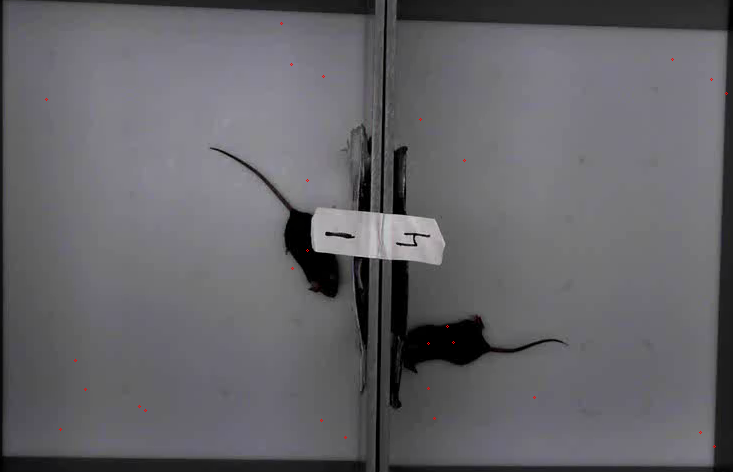
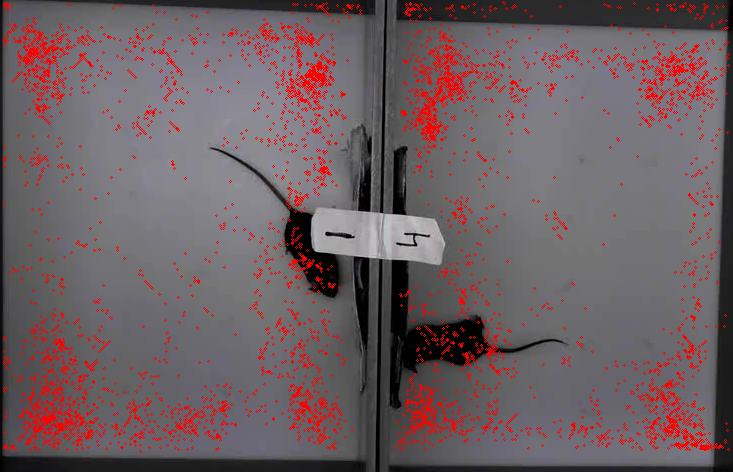
bouts are working now

diff --git a/test2.py b/test2.py
@@ -35,7 +35,8 @@ global per75_point1
 global per75_point2
 
 class ExperimentMetrics(object):
-    square_25=square_50=square_75=square_100=dist_square_25=dist_square_50=dist_square_75=dist_square_100=last_known_point=square_num_bout=square_frame_bout=square_distance_bout=counter = 0
+    square_25=square_50=square_75=square_100=dist_square_25=dist_square_50=dist_square_75=dist_square_100=square_num_bout=square_frame_bout=square_distance_bout=counter = 0
+    last_known_point= [0,0]
     square_lap_bout = []
 
     # The class "constructor" - It's actually an initializer
@@ -67,7 +68,8 @@ print cap.isOpened()
 total_number_of_frames = cap.get(CV_CAP_PROP_FRAME_COUNT)
 print "Total number of frames"
 print total_number_of_frames
-frame_per_sec = 30.03888889
+frame_per_sec = cap.get(CV_CAP_PROP_FPS)
+##frame_per_sec = 30.03888889
 print "Frame per sec"
 print frame_per_sec
 
@@ -150,22 +152,21 @@ def analyze(frame,frame_name,frame2,x,y,square_25,square_50,square_75,square_100
     in_mid_points = 0
     for mp in mid_points:
         in_mid_points = 1
-        last_known_point = last_known_point or mp
-        distance = dist(last_known_point,mp)
+        exp_obj.last_known_point = exp_obj.last_known_point or mp
+        distance = dist(exp_obj.last_known_point,mp)
         if distance > dist_threshold:
-            counter = 0 or counter
-            counter = counter + 1
-            if counter == bout_threshold:
-                num_bout = num_bout + 1
-                lap_bout.append(0)
-            if counter >= bout_threshold:
+            exp_obj.counter = exp_obj.counter + 1
+            if exp_obj.counter == bout_threshold:
+                exp_obj.square_num_bout = exp_obj.square_num_bout + 1
+                exp_obj.square_lap_bout.append(0)
+            if exp_obj.counter >= bout_threshold:
                 cv2.circle(frame,mp, 5, cv.CV_RGB(255,0,0))
-                frame_bout = frame_bout + 1
-                distance_bout = distance_bout + distance
-                lap_bout[-1] = lap_bout[-1] +1
+                exp_obj.square_frame_bout = exp_obj.square_frame_bout + 1
+                exp_obj.square_distance_bout = exp_obj.square_distance_bout + distance
+                exp_obj.square_lap_bout[-1] = exp_obj.square_lap_bout[-1] +1
         else:
             distance = 0
-            counter = 0
+            exp_obj.counter = 0
 
         if comp_tuple(mp,per25_point1,per25_point2):
             exp_obj.dist_square_25 = exp_obj.dist_square_25 + distance
@@ -179,11 +180,12 @@ def analyze(frame,frame_name,frame2,x,y,square_25,square_50,square_75,square_100
         else:
             exp_obj.square_100 = exp_obj.square_100 + 1
             exp_obj.dist_square_100 = exp_obj.dist_square_100 + distance
-        last_point = mp
-        last_known_point = mp
+        exp_obj.last_known_point = mp
+        break
+        #last_known_point = mp
 
     if in_mid_points == 0:
-        mp = last_known_point
+        mp = exp_obj.last_known_point
         if comp_tuple(mp,per25_point1,per25_point2):
             exp_obj.square_25 = exp_obj.square_25 + 1
         elif comp_tuple(mp,per50_point1,per50_point2):
@@ -191,7 +193,6 @@ def analyze(frame,frame_name,frame2,x,y,square_25,square_50,square_75,square_100
         elif comp_tuple(mp,per75_point1,per75_point2):
             exp_obj.square_75 = exp_obj.square_75 + 1
         else:
-            print "YOu are stupid"
             exp_obj.square_100 = exp_obj.square_100 + 1
 
     # finding centroids of best_cnt and draw a circle there
@@ -401,16 +402,16 @@ while(frame_number < total_number_of_frames):
         upper_left_75,upper_left,dist_upper_left_25,dist_upper_left_50,dist_upper_left_75,
         dist_upper_left,left_known_point,upper_left_num_bout,upper_left_frame_bout,
         upper_left_distance_bout,upper_left_lap_bout,left_counter,left_object)
-    print left_object.square_50
+    #print left_object.square_50
     analyze(right_side,"right",cv_rect_obj2,x_right,y_right,upper_right_25,upper_right_50,
         upper_right_75,upper_right,dist_upper_right_25,dist_upper_right_50,dist_upper_right_75,
         dist_upper_right,right_known_point,upper_right_num_bout,upper_right_frame_bout,
         upper_right_distance_bout,upper_right_lap_bout,right_counter,right_object)
-    print right_object.square_50
+    #print right_object.square_50
     if cv2.waitKey(33) == 27:
         break
 
-    frame_number = int(frame_number+1000)
+    frame_number = int(frame_number+5)
 
 
 cv2.imwrite(sample_name + "_tra.png",frame2)
@@ -418,8 +419,8 @@ cv2.imwrite(sample_name + "_tra.png",frame2)
 cv2.destroyAllWindows()
 
 print "ENDE"
-print left_object.square_50
-print right_object.square_50
+#print left_object.square_50
+#print right_object.square_50
 #all_frames = upper_left + upper_left_75 + upper_left_50 + upper_left_25
 #frame_per_sec = 360000/all_frames
 #print frame_per_sec
@@ -440,7 +441,7 @@ w_sheet = wb.get_sheet(0)
 
 w_sheet.write(r_sheet.nrows+1,0,"Results for " + sample_name)
 ### UPPER LEFT
-w_sheet.write(r_sheet.nrows+2,0,"upper_left")
+w_sheet.write(r_sheet.nrows+2,0,"Left")
 # TIME
 w_sheet.write(r_sheet.nrows+2,1,(left_object.square_100    / frame_per_sec))
 w_sheet.write(r_sheet.nrows+2,2,(left_object.square_75 / frame_per_sec))
@@ -453,13 +454,13 @@ w_sheet.write(r_sheet.nrows+2,7,(left_object.dist_square_50 / conversion_pixel_t
 w_sheet.write(r_sheet.nrows+2,8,(left_object.dist_square_25 / conversion_pixel_to_cm))
 # SPEED
 speed_upper_left = speed_upper_left_25 = speed_upper_left_50 = speed_upper_left_75 = 0
-if upper_left / frame_per_sec > 0:
+if left_object.square_100 / frame_per_sec > 0:
     speed_upper_left = left_object.dist_square_100 /conversion_pixel_to_cm / ( left_object.square_100 /frame_per_sec)
-if upper_left_25 / frame_per_sec > 0:
+if left_object.square_25 / frame_per_sec > 0:
     speed_upper_left_25 = left_object.dist_square_25 /conversion_pixel_to_cm/ (left_object.square_25/frame_per_sec)
-if upper_left_50 / frame_per_sec > 0:
+if left_object.square_50 / frame_per_sec > 0:
     speed_upper_left_50 = left_object.dist_square_50 /conversion_pixel_to_cm/ (left_object.square_50/frame_per_sec )
-if upper_left_75 / frame_per_sec > 0:
+if left_object.square_75 / frame_per_sec > 0:
     speed_upper_left_75 = left_object.dist_square_75 /conversion_pixel_to_cm/ (left_object.square_75/ frame_per_sec )
 w_sheet.write(r_sheet.nrows+2,9,(speed_upper_left))
 w_sheet.write(r_sheet.nrows+2,10,(speed_upper_left_75))
@@ -473,36 +474,36 @@ for i,f in enumerate(left_object.square_lap_bout):
     w_sheet.write(r_sheet.nrows+2,i+16,f)
 
 ### UPPER RIGHT
-w_sheet.write(r_sheet.nrows+3,0,"upper_right")
+w_sheet.write(r_sheet.nrows+3,0,"Right")
 # TIME
-w_sheet.write(r_sheet.nrows+3,1,(upper_right    / frame_per_sec))
-w_sheet.write(r_sheet.nrows+3,2,(upper_right_75 / frame_per_sec))
-w_sheet.write(r_sheet.nrows+3,3,(upper_right_50 / frame_per_sec))
-w_sheet.write(r_sheet.nrows+3,4,(upper_right_25 / frame_per_sec))
+w_sheet.write(r_sheet.nrows+3,1,(right_object.square_100    / frame_per_sec))
+w_sheet.write(r_sheet.nrows+3,2,(right_object.square_75 / frame_per_sec))
+w_sheet.write(r_sheet.nrows+3,3,(right_object.square_50 / frame_per_sec))
+w_sheet.write(r_sheet.nrows+3,4,(right_object.square_25 / frame_per_sec))
 # DISTANCE
-w_sheet.write(r_sheet.nrows+3,5,(dist_upper_right /conversion_pixel_to_cm))
-w_sheet.write(r_sheet.nrows+3,6,(dist_upper_right_75 / conversion_pixel_to_cm))
-w_sheet.write(r_sheet.nrows+3,7,(dist_upper_right_50 / conversion_pixel_to_cm))
-w_sheet.write(r_sheet.nrows+3,8,(dist_upper_right_25 / conversion_pixel_to_cm))
+w_sheet.write(r_sheet.nrows+3,5,(right_object.dist_square_100 /conversion_pixel_to_cm))
+w_sheet.write(r_sheet.nrows+3,6,(right_object.dist_square_75 / conversion_pixel_to_cm))
+w_sheet.write(r_sheet.nrows+3,7,(right_object.dist_square_50 / conversion_pixel_to_cm))
+w_sheet.write(r_sheet.nrows+3,8,(right_object.dist_square_25 / conversion_pixel_to_cm))
 # SPEED
 speed_upper_right = speed_upper_right_25 = speed_upper_right_50 = speed_upper_right_75 = 0
-if upper_right / frame_per_sec > 0:
-    speed_upper_right = dist_upper_right/conversion_pixel_to_cm / ( upper_right /frame_per_sec)
-if upper_right_25 / frame_per_sec > 0:
-    speed_upper_right_25 = dist_upper_right_25/conversion_pixel_to_cm/ (upper_right_25/frame_per_sec)
-if upper_right_50 / frame_per_sec > 0:
-    speed_upper_right_50 = dist_upper_right_50/conversion_pixel_to_cm/ (upper_right_50/frame_per_sec )
-if upper_right_75 / frame_per_sec > 0:
-    speed_upper_right_75 = dist_upper_right_75/conversion_pixel_to_cm/ (upper_right_75/ frame_per_sec )
+if right_object.square_100 / frame_per_sec > 0:
+    speed_upper_right = right_object.dist_square_100 /conversion_pixel_to_cm / ( right_object.square_100 /frame_per_sec)
+if right_object.square_25 / frame_per_sec > 0:
+    speed_upper_right_25 = right_object.dist_square_25 /conversion_pixel_to_cm/ (right_object.square_25/frame_per_sec)
+if right_object.square_50 / frame_per_sec > 0:
+    speed_upper_right_50 = right_object.dist_square_50 /conversion_pixel_to_cm/ (right_object.square_50/frame_per_sec )
+if right_object.square_75 / frame_per_sec > 0:
+    speed_upper_right_75 = right_object.dist_square_75 /conversion_pixel_to_cm/ (right_object.square_75/ frame_per_sec )
 w_sheet.write(r_sheet.nrows+3,9,(speed_upper_right))
 w_sheet.write(r_sheet.nrows+3,10,(speed_upper_right_75))
 w_sheet.write(r_sheet.nrows+3,11,(speed_upper_right_50))
 w_sheet.write(r_sheet.nrows+3,12,(speed_upper_right_25))
 # BOUTS
-w_sheet.write(r_sheet.nrows+3,13,(upper_right_num_bout))
-w_sheet.write(r_sheet.nrows+3,14,(upper_right_frame_bout / frame_per_sec))
-w_sheet.write(r_sheet.nrows+3,15,(upper_right_distance_bout/conversion_pixel_to_cm))
-for i,f in enumerate(upper_right_lap_bout):
+w_sheet.write(r_sheet.nrows+3,13,(right_object.square_num_bout))
+w_sheet.write(r_sheet.nrows+3,14,(right_object.square_frame_bout / frame_per_sec))
+w_sheet.write(r_sheet.nrows+3,15,(right_object.square_distance_bout/conversion_pixel_to_cm))
+for i,f in enumerate(right_object.square_lap_bout):
     w_sheet.write(r_sheet.nrows+3,i+16,f)
 
 
